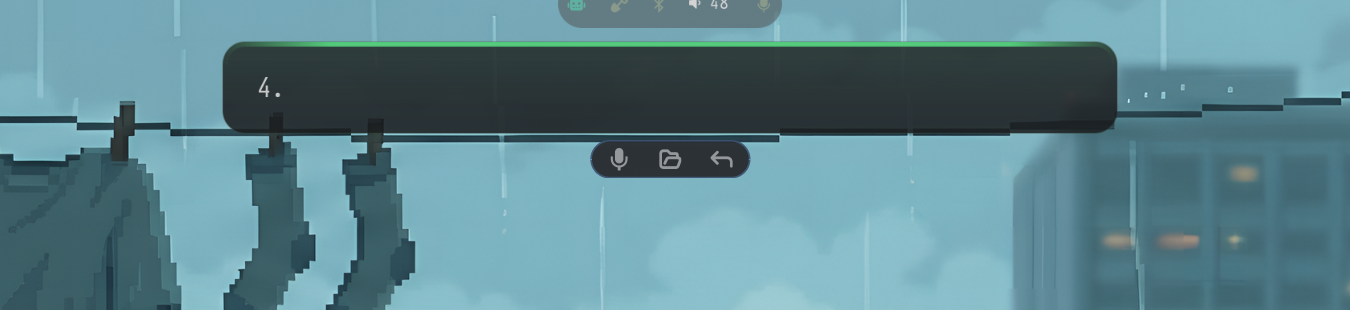
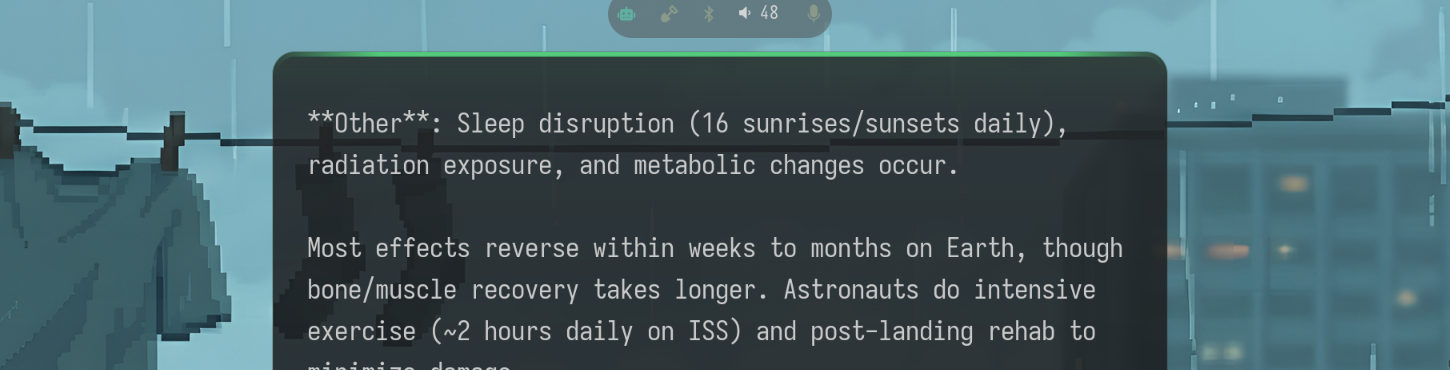
docs: rewrite README copy, ISS-themed screenshots
Less marketing, more just saying what it does. Replaced all
screenshots with ISS-themed queries for visual consistency.
Fixed "Open" description (opens transcript, not export).
Removed wake word references (not currently supported).

diff --git a/README.md b/README.md
@@ -1,58 +1,46 @@
 # aside
 
-An AI assistant that lives on your Wayland desktop. Ask it anything — by typing, by voice, or from your status bar — and watch the response stream in real time on a floating overlay. Then reply, keep talking, or walk away. It fades out on its own.
+Wayland-native LLM assistant. You talk to it (keyboard or mic), it streams the response onto a floating overlay on your desktop, and it goes away when it's done.
 
 ![Overlay streaming a response](screenshots/overlay-streaming.png)
 
-## The overlay
+## Overlay
 
-A glass-like floating panel that appears at the top of your screen when a response arrives. Words stream in token-by-token with smooth auto-scroll and edge fading. When the response finishes, it lingers briefly and fades away.
+C11 layer-shell surface. Streams text token-by-token as it comes back from the LLM. Auto-scrolls, fades content at the edges, and dismisses itself after a few seconds. Hover to keep it around. Left-click to dismiss. Right-click to cancel mid-stream.
 
-![Overlay detail](screenshots/overlay-closeup.png)
+![Overlay text detail](screenshots/overlay-closeup.png)
 
-Hover to keep it on screen. Left-click to dismiss. Right-click to cancel mid-stream. The accent bar at the top changes color — orange when the AI is responding, green when it's listening to you.
+The accent bar at the top is orange when the LLM is responding, green when it's listening to your mic. When nothing's happening, the overlay doesn't exist — no window, no tray icon.
 
-When it's not active, it doesn't exist. No persistent window, no tray icon. Just your desktop.
+## Actions bar
 
-## Reply without breaking flow
-
-After a response finishes, a compact action bar slides in below the overlay:
+When a response finishes, a small bar appears below the overlay with three buttons — mic (voice reply), open (view the transcript), and reply (inline text input). Goes away on its own after 5 seconds.
 
 ![Actions bar](screenshots/actions-bar.png)
 
-- **Mic** — voice reply to continue the conversation
-- **Open** — export the full conversation to markdown
-- **Reply** — expand into a text input right there
+## Voice
 
-Auto-dismisses after 5 seconds if you ignore it.
-
-## Talk to it
-
-Say a wake word and start talking. aside transcribes your speech with Whisper in real time and auto-sends when you stop — no button to press. The overlay shows your words as they're transcribed with a green accent bar so you know it's listening.
-
-It talks back too. Responses are synthesized sentence-by-sentence with Kokoro TTS and played as the text streams in. Middle-click the overlay to stop the voice while the text keeps flowing.
+Speech-to-text via faster-whisper. You talk, it transcribes in real time on the overlay, and auto-sends when you stop. TTS via Kokoro — responses are synthesized sentence-by-sentence and played back as text streams in. Middle-click the overlay to kill the audio without stopping the text.
 
 ## Input popup
 
-A GTK4 window with your recent conversations. Pick one to continue or start fresh. Follows your system dark/light theme.
+GTK4 window for typing queries. Shows recent conversations so you can pick one to continue.
 
 ![Input popup](screenshots/input-popup.png)
 
-## Status bar
+## Waybar
 
-A waybar module shows the current model, session cost, and activity state. Click it to open the input popup. The icon changes when the assistant is thinking, running a tool, or speaking.
+Custom module that shows the model name, cost, and what the daemon is doing. Click it to open the input popup.
 
 ![Waybar module](screenshots/waybar-module.png)
 
-## Any LLM
+## LLM support
 
-Uses [LiteLLM](https://github.com/BerriAI/litellm) — works with Claude, GPT-4o, Gemini, Llama (via Ollama), Mistral, Groq, Together, and [dozens more](https://docs.litellm.ai/docs/providers). Switch models by changing one line in the config.
+Uses [LiteLLM](https://github.com/BerriAI/litellm) — Claude, GPT-4o, Gemini, Ollama, Groq, Mistral, whatever. One config line to switch.
 
 ## Plugins
 
-Drop a Python file into the plugins directory with a `TOOL_SPEC` and a `run()` function. The daemon picks it up automatically.
-
-Built-in tools: **shell** (run commands), **screenshot** (capture + visual analysis), **web search**, **memory** (persistent across conversations), **clipboard**.
+Drop a Python file with a `TOOL_SPEC` dict and a `run()` function into the plugins directory. That's it. Built-in tools: shell, screenshot (sends the image to the LLM), web search, persistent memory, clipboard.
 
 ## Install
 
@@ -63,12 +51,12 @@ make install
 systemctl --user enable --now aside-daemon aside-overlay
 ```
 
-Voice, TTS, and the GTK input are optional:
+Voice, TTS, and GTK input are separate:
 
 ```bash
-make install-extras-voice  # wake word + speech-to-text
-make install-extras-tts    # text-to-speech
-make install-extras-gtk    # GTK4 input popup
+make install-extras-voice  # faster-whisper + VAD
+make install-extras-tts    # kokoro
+make install-extras-gtk    # input popup
 ```
 
 ## Docs
@@ -76,10 +64,10 @@ make install-extras-gtk    # GTK4 input popup
 | | |
 |---|---|
 | [Installation](docs/install.md) | Dependencies, build steps, AUR |
-| [Usage & CLI](docs/usage.md) | Commands, conversation management |
-| [Configuration](docs/configuration.md) | Every config option explained |
-| [Plugins](docs/plugins.md) | Writing and installing plugins |
-| [Architecture](docs/architecture.md) | System design, socket protocol, data flow |
+| [Usage & CLI](docs/usage.md) | All commands |
+| [Configuration](docs/configuration.md) | Config reference |
+| [Plugins](docs/plugins.md) | Plugin API |
+| [Architecture](docs/architecture.md) | System design, sockets, data flow |
 
 ## License
 

diff --git a/docs/usage.md b/docs/usage.md
@@ -15,7 +15,7 @@ The main CLI. All subcommands talk to the daemon over a Unix socket.
 | `aside reply ID --mic` | Continue a conversation via voice capture |
 | `aside ls [-n LIMIT]` | List recent conversations (default: 20) |
 | `aside show ID` | Print a full conversation transcript |
-| `aside open ID` | Export conversation to markdown and open it |
+| `aside open ID` | Open the conversation transcript |
 | `aside rm ID` | Delete a conversation |
 | `aside cancel` | Cancel the running query |
 | `aside stop-tts` | Stop TTS playback |
@@ -48,4 +48,4 @@ Waybar custom module. Reads the daemon's `status.json` and prints waybar-compati
 
 Conversations are stored as JSON in `~/.local/state/aside/conversations/`. By default, a new query continues the most recent conversation. Use `--new` to start fresh.
 
-Export any conversation to markdown with `aside open ID`.
+Open any conversation transcript with `aside open ID`.

diff --git a/docs/configuration.md b/docs/configuration.md
@@ -12,7 +12,7 @@ cp ~/.config/aside/config.toml.example ~/.config/aside/config.toml
 |------------------|-----------------------------------------------------|
 | `[model]`        | LLM provider and model name, system prompt          |
 | `[input]`        | Terminal emulator for input window                   |
-| `[voice]`        | Wake word, STT model, silence detection              |
+| `[voice]`        | STT model, silence detection                         |
 | `[tts]`          | Voice model, speed, text filtering                   |
 | `[overlay]`      | Font, dimensions, colors, animation timing           |
 | `[storage]`      | Conversation and archive directories                 |
